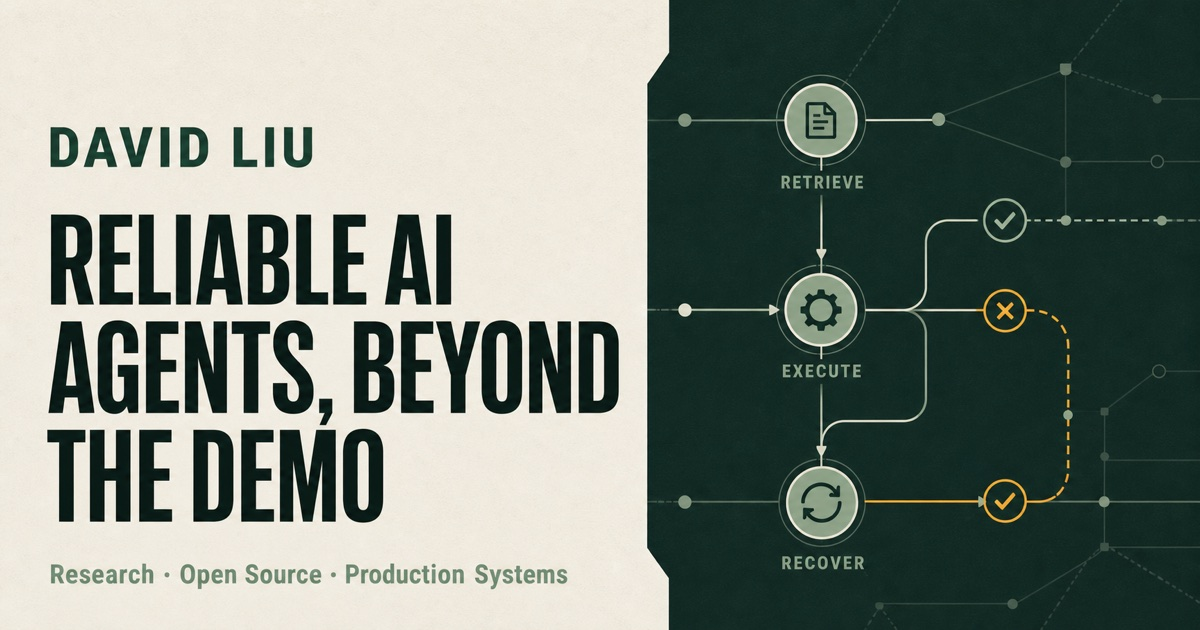
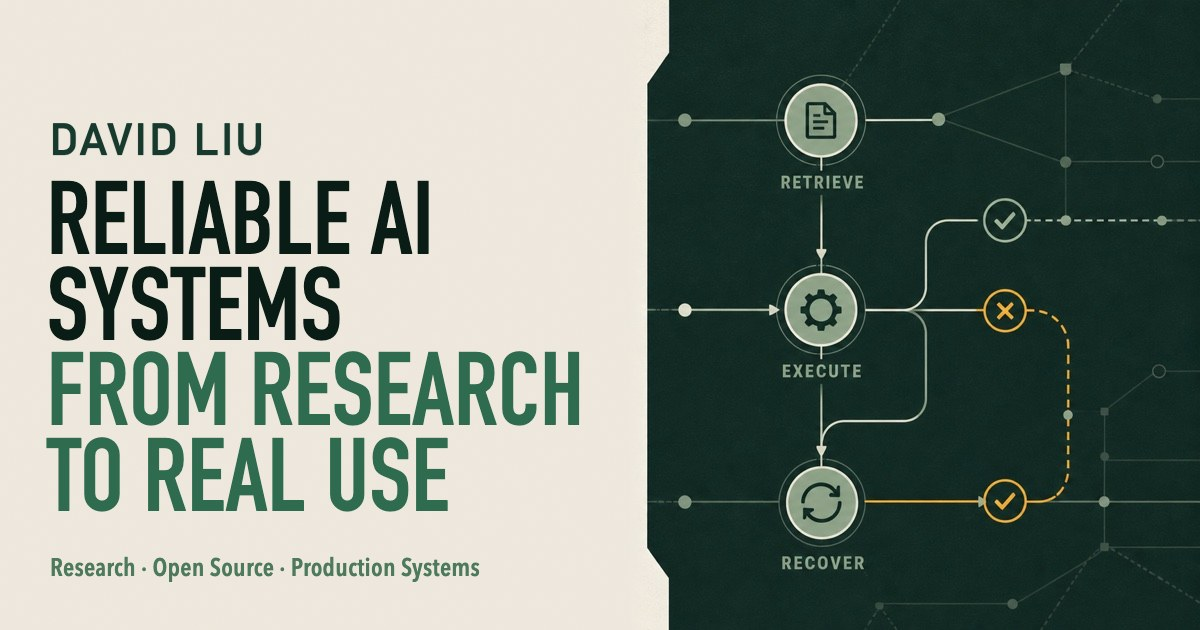
Fix the homepage's search and share metadata and update the headline
- The written description never reached the page: portfolio-metadata set
  it, but the SEO plugin had already flagged its own excerpt as autoDesc,
  so clean-description replaced it with the first Markdown text ("The
  research philosophy Built for the hard cases..."). Clear the flag, and
  cut the description to 152 characters.
- Give the homepage its own head <title> so the name no longer repeats
  ("... | David Liu").
- Headline: "Reliable AI systems, from research to real use." og:title and
  the PWA name now derive from it instead of the older "Reliable AI agents,
  beyond the demo", and og.jpg is re-lettered to match (the diagram panel
  is unchanged).
- The homepage e2e test pins the title, description and og:title to the
  portfolio data.

Changed region(s): [[0.0308, 0.181, 0.5242, 0.8444], [0.0308, 0.8746, 0.4933, 0.9349]]

diff --git a/tests/e2e/homepage.spec.ts b/tests/e2e/homepage.spec.ts
@@ -1,5 +1,7 @@
 import { expect, test } from "@playwright/test";
 
+import { profile } from "../../src/.vuepress/data/portfolio.ts";
+
 test("homepage is responsive, accessible and interactive", async ({ page }) => {
   const errors: string[] = [];
   page.on("pageerror", (error) => errors.push(error.message));
@@ -11,6 +13,17 @@ test("homepage is responsive, accessible and interactive", async ({ page }) => {
   await expect(page.locator(".portfolio-intro")).toBeVisible();
   await expect(page.locator("h1")).toHaveCount(1);
   await expect(page.locator("vite-error-overlay")).toHaveCount(0);
+
+  // Search snippets and link previews: the written description (not the first
+  // Markdown excerpt), the name once in the title, and the hero's headline.
+  await expect(page).toHaveTitle(`${profile.name} — ${profile.role}`);
+  const description = await page.locator('meta[name="description"]').getAttribute("content");
+  expect(description).toBe(profile.description);
+  expect(description?.length ?? 0).toBeLessThanOrEqual(160);
+  await expect(page.locator('meta[property="og:title"]')).toHaveAttribute(
+    "content",
+    `${profile.name} — ${profile.headline} ${profile.headlineEmphasis}`.replace(/\.$/u, ""),
+  );
 
   const invalidAnchors = await page.locator('a[href^="#"]').evaluateAll((links) =>
     links

diff --git a/src/.vuepress/data/portfolio.ts b/src/.vuepress/data/portfolio.ts
@@ -76,10 +76,12 @@ export const profile = {
   alternateName: "Dawei Liu",
   welcome: "Hello, I'm",
   role: "AI Systems Researcher & Software Engineer",
-  headline: "Reliable AI systems.",
-  headlineEmphasis: "Research that survives contact with reality.",
+  headline: "Reliable AI systems,",
+  headlineEmphasis: "from research to real use.",
+  // Meta description, link previews and the PWA manifest; keep it under ~160
+  // characters so search results do not truncate it.
   description:
-    "AI systems researcher and software engineer at ByteDance and collaborator with OpenLAIR, building reliable agent infrastructure, retrieval systems, evaluation workflows, and production AI software. Structured notes on algorithms, AI systems, and computer science.",
+    "AI systems researcher and software engineer at ByteDance. Publishes as Dawei Liu on reliable agents, skill retrieval, evaluation, and AI infrastructure.",
   introduction:
     "I work at the boundary of research and engineering: retrieval, execution reliability, observability, evaluation, and the infrastructure that makes AI systems useful beyond a demo.",
   location: "Seattle, Washington",

diff --git a/src/.vuepress/plugins/portfolio-metadata.ts b/src/.vuepress/plugins/portfolio-metadata.ts
@@ -22,6 +22,20 @@ export const portfolioMetadataPlugin = (): PluginFunction => () => ({
     Object.assign(page.frontmatter, metadata);
     page.title = metadata.title;
     page.data.title = metadata.title;
+
+    // The SEO plugin has already filled in an excerpt and flagged it
+    // `autoDesc`, so the clean-description plugin replaced this description
+    // with the first Markdown text ("Research focus Built for the hard
+    // cases…"). Clearing the flag keeps the written one for search and
+    // link previews.
+    (page.data as { autoDesc?: boolean }).autoDesc = false;
+
+    // The theme renders `<page title> | <site title>`, which repeated the name
+    // here. A head title entry wins, as on the 404 page.
+    const head = Array.isArray(page.frontmatter.head) ? page.frontmatter.head : [];
+    head.push(["title", {}, metadata.title]);
+    page.frontmatter.head = head;
+
     page.data.frontmatter = page.frontmatter;
   },
 });

diff --git a/src/.vuepress/theme/seo.ts b/src/.vuepress/theme/seo.ts
@@ -4,7 +4,8 @@ import { profile } from "../data/portfolio.js";
 import { PERSON_ID, SITE, person } from "../seo/person.js";
 
 const OG_IMAGE = `${SITE}/og.jpg`;
-const HOME_OG_TITLE = `${profile.name} — Reliable AI agents, beyond the demo`;
+// Follows the hero headline so link previews match the page.
+const HOME_OG_TITLE = `${profile.name} — ${profile.headline} ${profile.headlineEmphasis}`.replace(/\.$/u, "");
 
 const gitCreatedTime = (page: { data: unknown }): string | null => {
   const git = (page.data as { git?: { createdTime?: number } }).git;

diff --git a/src/.vuepress/theme/pwa.ts b/src/.vuepress/theme/pwa.ts
@@ -42,7 +42,7 @@ export const pwaOptions = {
     ],
   },
   manifest: {
-    name: `${profile.name} — Reliable AI agents`,
+    name: `${profile.name} — ${profile.headline.replace(/[,.]$/u, "")}`,
     short_name: profile.name,
     description: SITE_DESCRIPTION,
     theme_color: "#17352f",
